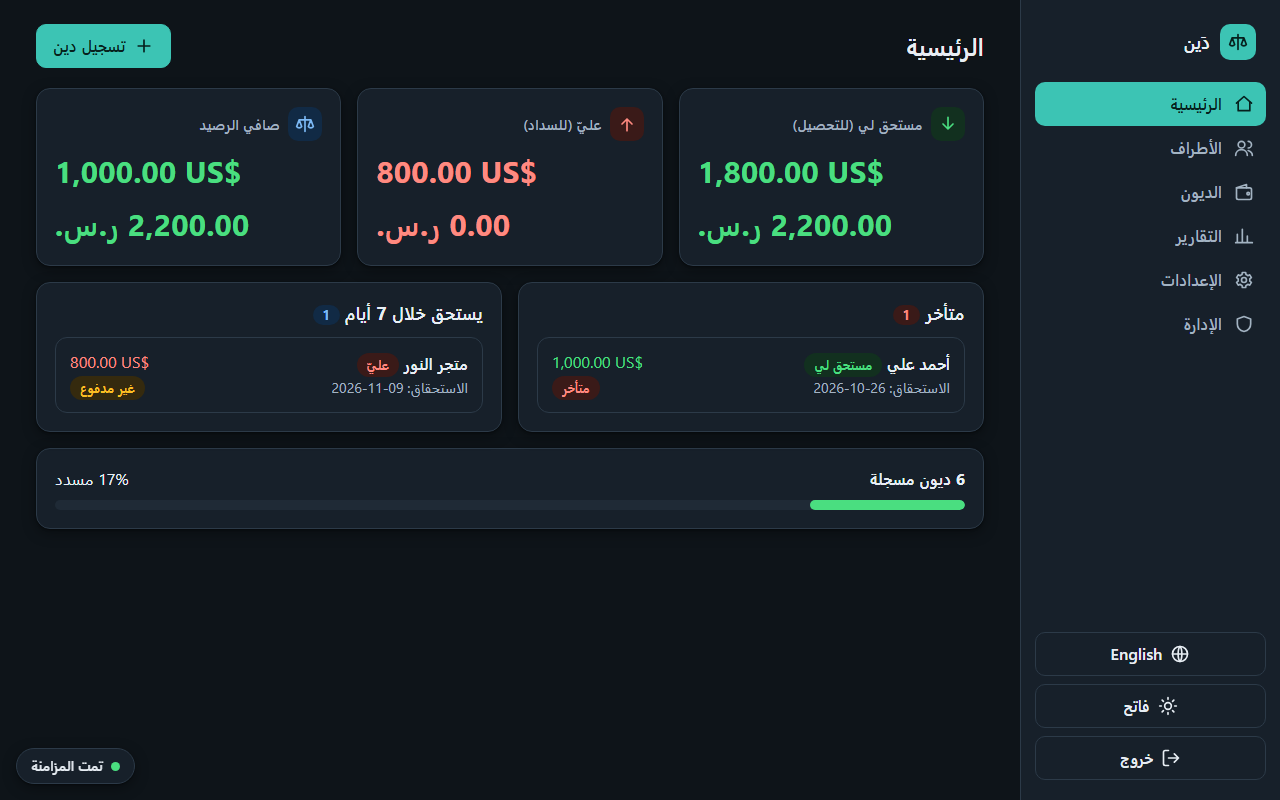
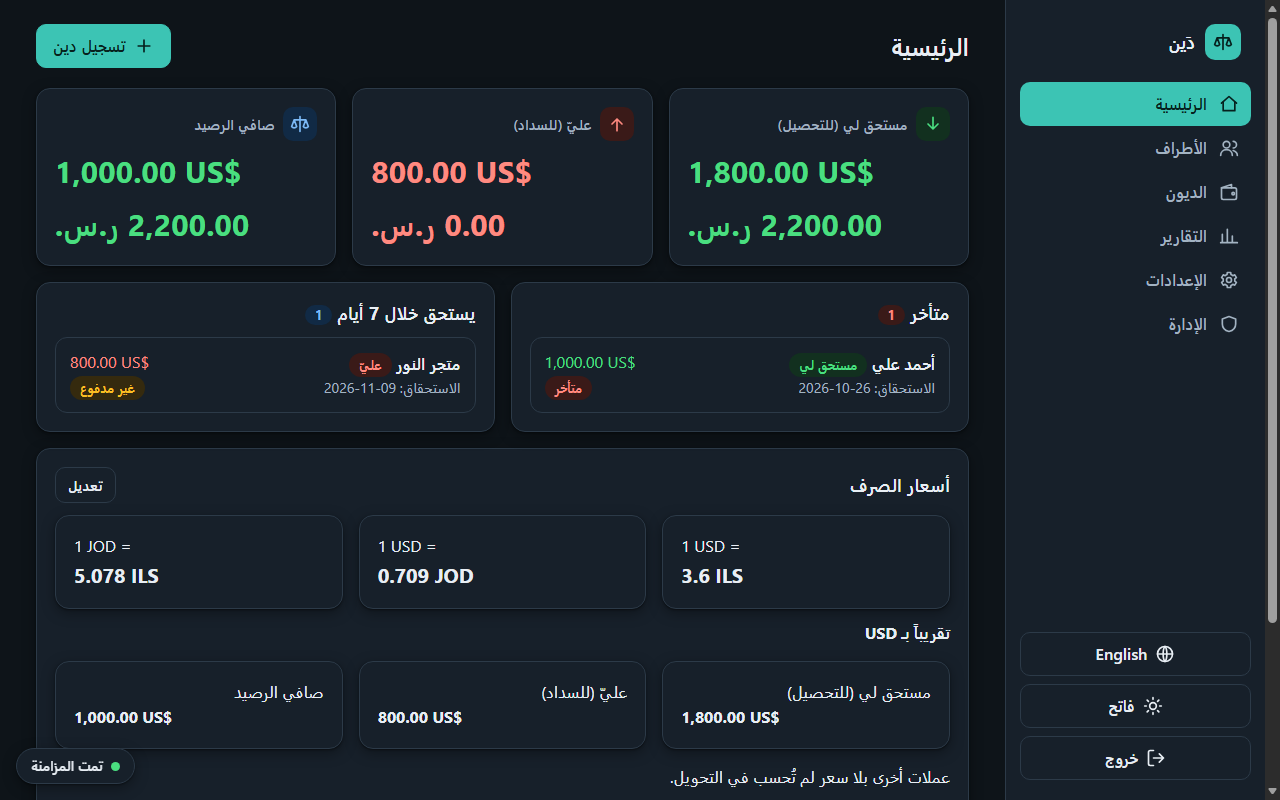
Add USD/ILS/JOD exchange rates card and settings
Rates are editable in Settings (stored on the device), shown on the dashboard
with an approximate converted total in the preferred currency.

diff --git a/web/ui.js b/web/ui.js
@@ -18,6 +18,7 @@ const L = {
     noPayments: 'لا توجد دفعات بعد', voidIt: 'إلغاء', voidDebt: 'إلغاء الدين', voidPay: 'إلغاء الدفعة', reason: 'السبب (اختياري)', confirmVoid: 'سيتم إلغاء هذا السجل مع الاحتفاظ به في سجل التدقيق. متابعة؟',
     viewAtt: 'عرض المرفق', balance: 'الرصيد', settled: 'مسوّى', theyOweMe: 'مدين لي', iOweThem: 'أنا مدين له',
     from: 'من', to: 'إلى', apply: 'تطبيق', exportCsv: 'تصدير Excel/CSV', printPdf: 'طباعة / PDF', statement: 'كشف حساب', generated: 'أُنشئ في',
+    rates: 'أسعار الصرف', perUsd: 'لكل 1 دولار', editRates: 'تعديل', approxIn: 'تقريباً بـ', ratesNote: 'أسعار تقريبية يدوية وليست مباشرة من السوق', ratesHint: 'أدخل السعر لكل 1 دولار. تُحفظ على هذا الجهاز وتُستخدم لتحويل الإجماليات تقريباً.', resetRates: 'استرجاع الافتراضي', ratesInvalid: 'أدخل أسعاراً صحيحة أكبر من صفر', ratesSkipped: 'عملات أخرى بلا سعر لم تُحسب في التحويل.',
     profile: 'الملف الشخصي', changePw: 'تغيير كلمة المرور', currentPw: 'كلمة المرور الحالية', newPw: 'كلمة المرور الجديدة', prefCurrency: 'العملة المفضلة',
     appearance: 'المظهر', theme: 'الوضع', dark: 'داكن', light: 'فاتح', language: 'اللغة',
     notifications: 'إشعارات تيليجرام', tgToken: 'رمز البوت (Bot token)', tgChat: 'معرّف المحادثة (Chat ID)', freq: 'التكرار', off: 'متوقف', daily: 'يومي', weekly: 'أسبوعي', sendTest: 'إرسال ملخص تجريبي', tgSaved: 'محفوظ — اتركه فارغاً للإبقاء عليه',
@@ -44,6 +45,7 @@ const L = {
     noPayments: 'No payments yet', voidIt: 'Void', voidDebt: 'Void debt', voidPay: 'Void payment', reason: 'Reason (optional)', confirmVoid: 'This record will be voided and kept in the audit trail. Continue?',
     viewAtt: 'View attachment', balance: 'Balance', settled: 'Settled', theyOweMe: 'Owes me', iOweThem: 'I owe',
     from: 'From', to: 'To', apply: 'Apply', exportCsv: 'Export Excel/CSV', printPdf: 'Print / PDF', statement: 'Account statement', generated: 'Generated',
+    rates: 'Exchange rates', perUsd: 'per 1 USD', editRates: 'Edit', approxIn: 'Approx. in', ratesNote: 'Manual approximate rates, not live market data', ratesHint: 'Enter the rate per 1 USD. Saved on this device and used to convert totals approximately.', resetRates: 'Reset to default', ratesInvalid: 'Enter valid rates greater than zero', ratesSkipped: 'Other currencies without a rate are not included in the conversion.',
     profile: 'Profile', changePw: 'Change password', currentPw: 'Current password', newPw: 'New password', prefCurrency: 'Preferred currency',
     appearance: 'Appearance', theme: 'Theme', dark: 'Dark', light: 'Light', language: 'Language',
     notifications: 'Telegram notifications', tgToken: 'Bot token', tgChat: 'Chat ID', freq: 'Frequency', off: 'Off', daily: 'Daily', weekly: 'Weekly', sendTest: 'Send test summary', tgSaved: 'Saved — leave empty to keep',
@@ -214,6 +216,31 @@ const head = (title, acts = '') => `<div class="top"><h1>${title}</h1><div class
 const debtRow = d => `<a class="item" href="#/debts/${d.id}"><div><strong>${esc(d.party_name)}</strong> ${typeBadge(d.type)}
   <div class="sub">${t('due')}: <span class="ltr">${d.due_date || t('noDue')}</span></div></div><div style="text-align:end">${amt(d.remaining, d.currency, d.type === 'given' ? 'pos' : 'neg')}<div>${statusBadge(d)}</div></div></a>`;
 
+// Exchange rates (units of each currency per 1 USD). Editable in Settings, stored on this device.
+const RATE_CODES = ['USD', 'ILS', 'JOD'];
+const RATE_DEFAULTS = { USD: 1, ILS: 3.6, JOD: 0.709 };
+function getRates() {
+  try { const r = JSON.parse(localStorage.getItem('rates') || '{}'); const o = { USD: 1 };
+    RATE_CODES.forEach(c => { const v = Number(r[c]); o[c] = c === 'USD' ? 1 : (v > 0 ? v : RATE_DEFAULTS[c]); }); o.at = r.at || ''; return o; }
+  catch { return { ...RATE_DEFAULTS, at: '' }; }
+}
+const fmtRate = n => (n >= 100 ? n.toFixed(2) : n >= 1 ? n.toFixed(3) : n.toFixed(4)).replace(/\.?0+$/, '');
+function ratesCard(tot) {
+  const r = getRates(), cross = (a, b) => r[b] / r[a];
+  const pairs = [['USD', 'ILS'], ['USD', 'JOD'], ['JOD', 'ILS']];
+  const target = r[S.user.currency] ? S.user.currency : 'USD';
+  const covered = tot.filter(x => r[x.currency]), skipped = tot.length - covered.length;
+  const conv = key => covered.reduce((s, x) => s + x[key] / r[x.currency], 0) * r[target];
+  const hasData = covered.some(x => x.receivable || x.payable);
+  return `<section class="card" style="margin-top:16px" aria-labelledby="h-fx"><div style="display:flex;justify-content:space-between;align-items:center;gap:8px;flex-wrap:wrap;margin-bottom:12px">
+    <h2 id="h-fx">${t('rates')}</h2><a class="btn sm" href="#/settings">${t('editRates')}</a></div>
+    <div class="grid g3">${pairs.map(([a, b]) => `<div class="card rate"><div class="sub ltr">1 ${a} =</div><div class="ltr" style="font-size:1.25rem;font-weight:700">${fmtRate(cross(a, b))} ${b}</div></div>`).join('')}</div>
+    ${hasData ? `<p style="margin-top:12px"><strong>${t('approxIn')} ${target}</strong></p>
+    <div class="grid g3" style="margin-top:6px">${[['toCollect', 'receivable'], ['toPay', 'payable'], ['net', 'net']].map(([l, k]) => `<div class="card rate"><div class="sub">${t(l)}</div><div class="ltr" style="font-weight:700">${esc(money(conv(k), target))}</div></div>`).join('')}</div>
+    ${skipped ? `<p class="sub">${t('ratesSkipped')}</p>` : ''}` : ''}
+    <p class="sub" style="margin-top:8px">${t('ratesNote')}${r.at ? ' · ' + esc(r.at) : ''}</p></section>`;
+}
+
 async function dashboard() {
   const d = await api('/dashboard');
   const tot = d.totals.length ? d.totals : [{ currency: S.user.currency, receivable: 0, payable: 0, net: 0 }];
@@ -227,6 +254,7 @@ async function dashboard() {
       <div class="list">${d.overdue.length ? d.overdue.map(debtRow).join('') : `<p class="muted">${t('noOverdue')}</p>`}</div></section>
     <section class="card" aria-labelledby="h-up"><h2 id="h-up" style="margin-bottom:12px">${t('upcoming')} <span class="badge b-partial">${d.upcoming.length}</span></h2>
       <div class="list">${d.upcoming.length ? d.upcoming.map(debtRow).join('') : `<p class="muted">${t('noUpcoming')}</p>`}</div></section></div>
+    ${ratesCard(tot)}
     <section class="card" style="margin-top:16px"><div style="display:flex;justify-content:space-between;margin-bottom:8px"><strong>${d.counts.total || 0} ${t('counts')}</strong><span>${pct}% ${t('settledPct')}</span></div>
       <div class="bar" role="progressbar" aria-valuenow="${pct}" aria-valuemin="0" aria-valuemax="100"><i style="width:${pct}%"></i></div></section>`);
 }
@@ -345,6 +373,11 @@ async function settings() {
   <form class="card" id="f-pw" novalidate><h2 style="margin-bottom:14px">${t('changePw')}</h2><div class="err" role="alert" hidden></div>
     ${field('s-cp', t('currentPw'), '<input id="s-cp" name="current" type="password" autocomplete="current-password" required class="ltr">')}
     ${field('s-np', t('newPw'), '<input id="s-np" name="password" type="password" autocomplete="new-password" required minlength="8" class="ltr">', t('pwHint'))}<button class="btn primary" type="submit">${t('changePw')}</button></form>
+  <form class="card" id="f-rates" novalidate><h2 style="margin-bottom:14px">${t('rates')}</h2><div class="err" role="alert" hidden></div>
+    <p class="sub" style="margin-bottom:12px">${t('ratesHint')}</p>
+    ${field('r-ils', `ILS — ${t('perUsd')}`, `<input id="r-ils" name="ILS" type="number" step="0.0001" min="0.0001" inputmode="decimal" required class="ltr" value="${getRates().ILS}">`)}
+    ${field('r-jod', `JOD — ${t('perUsd')}`, `<input id="r-jod" name="JOD" type="number" step="0.0001" min="0.0001" inputmode="decimal" required class="ltr" value="${getRates().JOD}">`)}
+    <div style="display:flex;gap:8px;flex-wrap:wrap"><button class="btn primary" type="submit">${t('save')}</button><button class="btn" type="button" data-act="rates-reset">${t('resetRates')}</button></div></form>
   <section class="card"><h2 style="margin-bottom:14px">${t('appearance')}</h2><div style="display:flex;gap:8px;flex-wrap:wrap">
     <button class="btn" data-act="theme">${S.theme === 'dark' ? I.sun + t('light') : I.moon + t('dark')}</button><button class="btn" data-act="lang">${I.globe}${S.lang === 'ar' ? 'English' : 'العربية'}</button></div></section></div>`);
 }
@@ -356,6 +389,12 @@ function bindSettings() {
   };
   wire('#f-prof', async d => { S.user = await api('/me', { method: 'PUT', body: d }); toast(t('saved')); });
   wire('#f-tg', async d => { if (!d.tg_token) delete d.tg_token; S.user = await api('/me', { method: 'PUT', body: d }); toast(t('saved')); render(); });
+  wire('#f-rates', async d => {
+    const ils = Number(d.ILS), jod = Number(d.JOD);
+    if (!(ils > 0) || !(jod > 0)) throw new Error(t('ratesInvalid'));
+    localStorage.setItem('rates', JSON.stringify({ ILS: ils, JOD: jod, at: new Date().toISOString().slice(0, 10) })); toast(t('saved'));
+  });
+  $('[data-act="rates-reset"]').onclick = () => { localStorage.removeItem('rates'); toast(t('saved')); render(); };
   wire('#f-pw', async (d, f) => { await api('/me/password', { method: 'PUT', body: d }); f.reset(); toast(t('saved')); });
 }
 

diff --git a/e2e/run.js b/e2e/run.js
@@ -182,7 +182,7 @@ async function main() {
     /* ---------- 10b. App shell offline (service worker) — kills the server for real ---------- */
     if (process.env.SERVER_PID) {
       check('Service worker is active and controls the page', await until(`!!navigator.serviceWorker.controller`, 10000));
-      check('Service worker cached the app shell', await ev(`caches.open('dayn-shell-v1').then(c=>c.keys()).then(k=>k.length>=5)`));
+      check('Service worker cached the app shell', await ev(`caches.open('dayn-shell-v2').then(c=>c.keys()).then(k=>k.length>=5)`));
       process.kill(Number(process.env.SERVER_PID)); await sleep(1500);
       check('Server is really down', await ev(`fetch('/api/me').then(()=>false,()=>true)`));
       await go('#/'); await send('Page.reload'); await sleep(2500);

diff --git a/web/sw.js b/web/sw.js
@@ -1,7 +1,7 @@
 'use strict';
 // Caches the app shell so the app opens offline. API calls are never cached here:
 // offline data lives in IndexedDB (see local.js).
-const CACHE = 'dayn-shell-v1';
+const CACHE = 'dayn-shell-v2';
 const SHELL = ['/', '/ui.js', '/local.js', '/theme.js', '/app.css', '/manifest.webmanifest', '/icon.svg'];
 
 self.addEventListener('install', e => {
